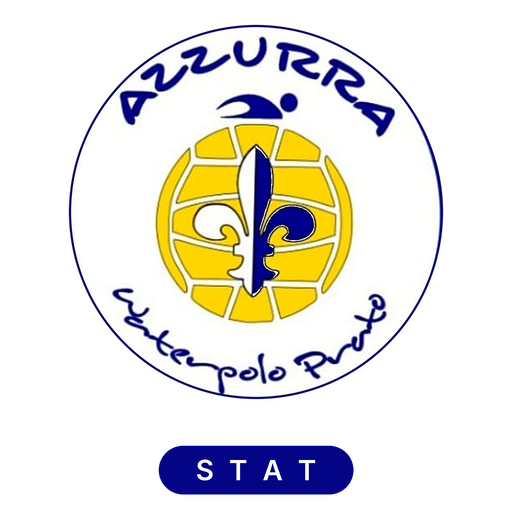
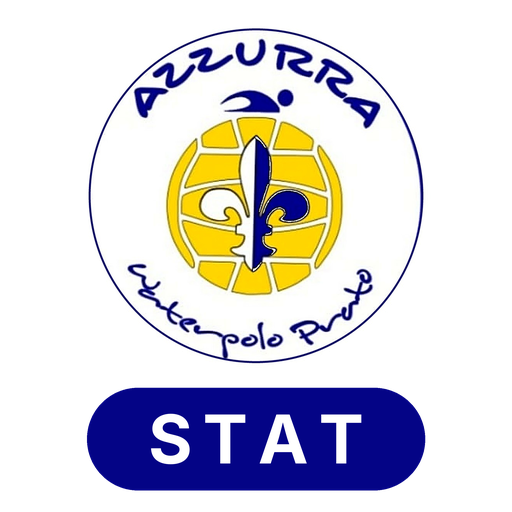
Icona: STAT più grande e leggibile
Claude-Session: https://claude.ai/code/session_01Gz9p9Ae73tt7fwNEnKWUFQ

diff --git a/sw.js b/sw.js
@@ -1,4 +1,4 @@
-const C='azzurrawp-v6';const F=['./','index.html','manifest.webmanifest','icon-192.png','icon-512.png','icon-mask-192.png','icon-mask-512.png'];
+const C='azzurrawp-v7';const F=['./','index.html','manifest.webmanifest','icon-192.png','icon-512.png','icon-mask-192.png','icon-mask-512.png'];
 self.addEventListener('install',e=>{e.waitUntil(caches.open(C).then(c=>c.addAll(F)));self.skipWaiting()});
 self.addEventListener('activate',e=>{e.waitUntil(caches.keys().then(k=>Promise.all(k.filter(x=>x!==C).map(x=>caches.delete(x)))).then(()=>self.clients.claim()))});
 self.addEventListener('fetch',e=>{if(e.request.method!=='GET')return;
